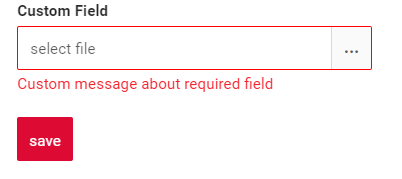
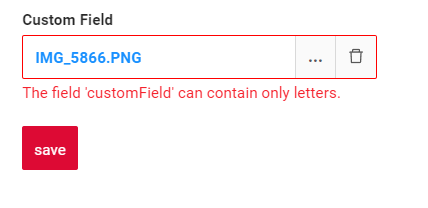
inline fix

diff --git a/docs/widget/fields/field/pickList/pickList.md b/docs/widget/fields/field/pickList/pickList.md
@@ -699,15 +699,15 @@ Also, it optionally allows you to filter data on target view before it will be o
  
             @Override
             protected ActionResultDTO<MyExampleDTO> doUpdateEntity(MyEntity entity, MyExampleDTO data, BusinessComponent bc) {
-                if (data.isFieldChanged(MyExampleDTO_.customFieldId)) {
+                if (StringUtils.isNotEmpty(data.getCustomField())
+                        && !String.valueOf(data.getCustomField()).matches("[A-Za-z]+")
+                ) {
+                    throw new BusinessException().addPopup("The field 'customField' can contain only letters.");
+                }
+                if (data.isFieldChanged(MyExample114DTO_.customFieldId)) {
                     entity.setCustomFieldEntity(data.getCustomFieldId() != null
-                            ? entityManager.getReference(MyEntityPickEntity.class, data.getCustomFieldId())
+                            ? entityManager.getReference(MyEntity129.class, data.getCustomFieldId())
                             : null);
-                    if (StringUtils.isNotEmpty(data.getCustomField())
-                            && !String.valueOf(data.getCustomField()).matches("[A-Za-z]+")
-                    ) {
-                        throw new BusinessException().addPopup("The field 'customField' can contain only letters.");
-                    }
                 }
                 return new ActionResultDTO<>(entityToDto(bc, entity));
             }              
@@ -778,7 +778,7 @@ Also, it optionally allows you to filter data on target view before it will be o
             ```java
          
                 public class MyExampleDTO extends DataResponseDTO {
-                    @NotNull(message = "Custom message about required field")
+                    @Pattern(regexp="[A-Za-z]+", message = "The field 'customField' can contain only letters."))
                     private String customField;
                 }
             ```
@@ -803,7 +803,7 @@ Also, it optionally allows you to filter data on target view before it will be o
                     entity.addField(MyExampleDTO_.customField.getName(), "The field 'customField' can contain only letters.");
                 }
                 if (String.valueOf(dto.getCustomFieldAdditional()).matches("[A-Za-z]+"))  {
-                    entity.addField(MyExampleDTO_.customFieldAdditional.getName(), errorMessage("The field 'customFieldAdditional' can contain only letters."));
+                    entity.addField(MyExampleDTO_.customFieldAdditional.getName(),"The field 'customFieldAdditional' can contain only letters.");
                 }
                 if (entity.getFields().size() > 0) {
                     throw new BusinessException().setEntity(entity);

diff --git a/docs/widget/fields/field/inlinePickList/inlinePickList.md b/docs/widget/fields/field/inlinePickList/inlinePickList.md
@@ -601,14 +601,14 @@ Also, it optionally allows you to filter data on target view before it will be o
             @Override
             protected ActionResultDTO<MyExampleDTO> doUpdateEntity(MyEntity entity, MyExampleDTO data, BusinessComponent bc) {
                 if (data.isFieldChanged(MyExampleDTO_.customFieldId)) {
-                    entity.setCustomFieldEntity(data.getCustomFieldId() != null
-                            ? entityManager.getReference(MyEntityPick.class, data.getCustomFieldId())
-                            : null);
                     if (StringUtils.isNotEmpty(data.getCustomField())
-                            && !String.valueOf(data.getCustomField()).matches("[A-Za-z]+")
+                            && !data.getCustomField().matches("[A-Za-z]+")
                     ) {
                         throw new BusinessException().addPopup("The field 'customField' can contain only letters.");
                     }
+                    entity.setCustomFieldEntity(data.getCustomFieldId() != null
+                            ? entityManager.getReference(MyEntityPick.class, data.getCustomFieldId())
+                            : null);
                 }
                 return new ActionResultDTO<>(entityToDto(bc, entity));
             }              
@@ -678,7 +678,7 @@ Also, it optionally allows you to filter data on target view before it will be o
             ```java
          
                 public class MyExampleDTO extends DataResponseDTO {
-                    @NotNull(message = "Custom message about required field")
+                    @Pattern(regexp="[A-Za-z]+", message = "The field 'customField' can contain only letters.")
                     private String customField;
                 }
             ```
@@ -703,7 +703,7 @@ Also, it optionally allows you to filter data on target view before it will be o
                     entity.addField(MyExampleDTO_.customField.getName(), "The field 'customField' can contain only letters.");
                 }
                 if (!String.valueOf(dto.getCustomFieldAdditional()).matches("[A-Za-z]+"))  {
-                    entity.addField(MyExampleDTO_.customFieldAdditional.getName(), errorMessage("The field 'customFieldAdditional' can contain only letters."));
+                    entity.addField(MyExampleDTO_.customFieldAdditional.getName(), "The field 'customFieldAdditional' can contain only letters.");
                 }
                 if (entity.getFields().size() > 0) {
                     throw new BusinessException().setEntity(entity);

diff --git a/docs/widget/fields/field/multivalue/multivalue.md b/docs/widget/fields/field/multivalue/multivalue.md
@@ -525,15 +525,19 @@
             @Override
             protected ActionResultDTO<MyExampleDTO> doUpdateEntity(MyEntity entity, MyExampleDTO data, BusinessComponent bc) {
                 if (data.isFieldChanged(MyExampleDTO_.customFieldId)) {
-                    entity.setCustomFieldEntity(data.getCustomFieldId() != null
-                            ? entityManager.getReference(MyEntity129.class, data.getCustomFieldId())
-                            : null);
-                    if (StringUtils.isNotEmpty(data.getCustomField())
-                            && !String.valueOf(data.getCustomField()).matches("[A-Za-z]+")
-                    ) {
-                        throw new BusinessException().addPopup("The field 'customField' can contain only letters.");
+                data.getCustomField().getValues()
+                        .stream()
+                        .filter(val-> val.getValue().matches("[A-Za-z]+")==false)
+                        .findFirst()
+                        .orElseThrow( () -> new BusinessException().addPopup("The field 'customField' can contain only letters."));
+                entity.getCustomFieldList().clear();
+                entity.getCustomFieldList().addAll(data.getCustomField().getValues().stream()
+                        .map(MultivalueFieldSingleValue::getId)
+                        .filter(Objects::nonNull)
+                        .map(Long::parseLong)
+                        .map(e -> entityManager.getReference(MyEntityPick.class, e))
+                        .collect(Collectors.toList()));
                     }
-                }
                 return new ActionResultDTO<>(entityToDto(bc, entity));
             }              
         ```
@@ -628,7 +632,7 @@
                     entity.addField(MyExampleDTO_.customField.getName(), "The field 'customField' can contain only letters.");
                 }
                 if (String.valueOf(dto.getCustomFieldAdditional()).matches("[A-Za-z]+"))  {
-                    entity.addField(MyExampleDTO_.customFieldAdditional.getName(), errorMessage("The field 'customFieldAdditional' can contain only letters."));
+                    entity.addField(MyExampleDTO_.customFieldAdditional.getName(), "The field 'customFieldAdditional' can contain only letters."))
                 }
                 if (entity.getFields().size() > 0) {
                     throw new BusinessException().setEntity(entity);

diff --git a/docs/widget/fields/field/dictionary/dictionary.md b/docs/widget/fields/field/dictionary/dictionary.md
@@ -649,7 +649,7 @@ Also, it optionally allows you to filter data on target view before it will be o
             ```java
          
                 public class MyExampleDTO extends DataResponseDTO {
-                    @NotNull(message = "Custom message about required field")
+                    @NotNull(message = "Custom message about error")
                     private CustomFieldEnum customField
                 }
             ```
@@ -672,10 +672,10 @@ Also, it optionally allows you to filter data on target view before it will be o
             private void validate(BusinessComponent bc, MyExampleDTO dto) {
                 BusinessError.Entity entity = new BusinessError.Entity(bc);
                 if(!CustomFieldEnum.HIGH.getValue().equals(dto.getCustomField().getValue())) {
-                    entity.addField(MyExampleDTO_.customField.getName(), errorMessage("The field 'customField' can contain only 'High'"));
+                    entity.addField(MyExampleDTO_.customField.getName(), "Custom message about error");
                 }
                 if (!CustomFieldEnum.HIGH.getValue().equals(dto.getCustomFieldAdditional().getValue()))  {
-                    entity.addField(MyExampleDTO_.customFieldAdditional.getName(), errorMessage("The field 'customFieldAdditional' can contain only 'High'"));
+                    entity.addField(MyExampleDTO_.customFieldAdditional.getName(), "Custom message about error");
                 }
                 if (entity.getFields().size() > 0) {
                     throw new BusinessException().setEntity(entity);

diff --git a/docs/widget/fields/field/multipleSelect/multipleSelect.md b/docs/widget/fields/field/multipleSelect/multipleSelect.md
@@ -370,18 +370,17 @@ _not applicable_
             @Override
             protected ActionResultDTO<MyExampleDTO> doUpdateEntity(MyEntity entity, MyExampleDTO data, BusinessComponent bc) {
             if (data.isFieldChanged(MyExampleDTO_.customField)) {
-                entity.setCustomField(
-                        data.getCustomField().getValues()
+
+               data.getCustomField().getValues()
+                .stream()
+                .filter(val->val.getValue().equals(CustomFieldEnum.HIGH.getValue()))
+                .findFirst()
+                .orElseThrow( () -> new BusinessException().addPopup("The field 'customField' can contain 'High'"));
+
+                entity.setCustomField(data.getCustomField().getValues()
                                 .stream()
                                 .map(v -> CustomFieldEnum.getByValue(v.getValue()))
-                                .collect(Collectors.toSet()));
-                        if(data.getCustomField().getValues()
-                        .stream()
-                        .filter(val->val.getValue().equals(CustomFieldEnum.HIGH.getValue()))
-                        .findFirst().equals(true))
-                        {
-                            throw new BusinessException().addPopup("The field 'customField' cannot contain 'High'");
-                        }
+                                .collect(Collectors.toSet()));  
              }             
         ```
         === "List widget"

diff --git a/docs/widget/fields/field/fileUpload/fileUpload.md b/docs/widget/fields/field/fileUpload/fileUpload.md
@@ -473,8 +473,10 @@ For `FileUpload field` filtering is case-insensitive and retrieves records conta
          
                 public class MyExampleDTO extends DataResponseDTO {
                     @SearchParameter(name = "customField")
-                    @NotNull(message = "Custom message about required field")
+                    @Pattern(regexp="[A-Za-z]+", message = "The field 'customField' can contain only letters.")
                     private String customField;
+                    @SearchParameter(name = "customFieldId")
+                    private String customFieldId;
                 }
             ```
             === "List widget"
@@ -498,7 +500,7 @@ For `FileUpload field` filtering is case-insensitive and retrieves records conta
                     entity.addField(MyExampleDTO_.customField.getName(), "The field 'customField' can contain only letters.");
                 }
                 if  (!String.valueOf(dto.getCustomFieldAdditional()).matches("[A-Za-z]+")) {
-                    entity.addField(MyExampleDTO_.customFieldAdditional.getName(), errorMessage("The field 'customFieldAdditional' can contain only letters."));
+                    entity.addField(MyExampleDTO_.customFieldAdditional.getName(), "The field 'customFieldAdditional' can contain only letters.");
                 }
                 if (entity.getFields().size() > 0) {
                     throw new BusinessException().setEntity(entity);

diff --git a/docs/widget/fields/field/number/number.md b/docs/widget/fields/field/number/number.md
@@ -691,10 +691,10 @@ Also, it optionally allows you to filter data on target view before it will be o
             private void validate(BusinessComponent bc, MyExampleDTO dto) {
                 BusinessError.Entity entity = new BusinessError.Entity(bc);
                 if (dto.getCustomField() < 100000)  {
-                    entity.addField(MyExampleDTO_.customField.getName(), errorMessage("The field 'customField' cannot be less than 100 000."));
+                    entity.addField(MyExampleDTO_.customField.getName(), "The field 'customField' cannot be less than 100 000.");
                 }
                 if  (dto.getCustomField() < 100000)  {
-                    entity.addField(MyExampleDTO_.customFieldAdditional.getName(), errorMessage("The field 'customField' cannot be less than 100 000."));
+                    entity.addField(MyExampleDTO_.customFieldAdditional.getName(), "The field 'customField' cannot be less than 100 000.");
                 }
                 if (entity.getFields().size() > 0) {
                     throw new BusinessException().setEntity(entity);

diff --git a/docs/widget/fields/field/percent/percent.md b/docs/widget/fields/field/percent/percent.md
@@ -702,10 +702,10 @@ Also, it optionally allows you to filter data on target view before it will be o
             private void validate(BusinessComponent bc, MyExampleDTO dto) {
                 BusinessError.Entity entity = new BusinessError.Entity(bc);
                 if (dto.getCustomField() < 5)  {
-                    entity.addField(MyExampleDTO_.customField.getName(), errorMessage("The field 'customField' cannot be less than 5%"));
+                    entity.addField(MyExampleDTO_.customField.getName(),"The field 'customField' cannot be less than 5%");
                 }
                 if  (dto.getCustomField() < 5)  {
-                    entity.addField(MyExampleDTO_.customFieldAdditional.getName(), errorMessage("The field 'customField' cannot be less than 5%"));
+                    entity.addField(MyExampleDTO_.customFieldAdditional.getName(), "The field 'customField' cannot be less than 5%");
                 }
                 if (entity.getFields().size() > 0) {
                     throw new BusinessException().setEntity(entity);
